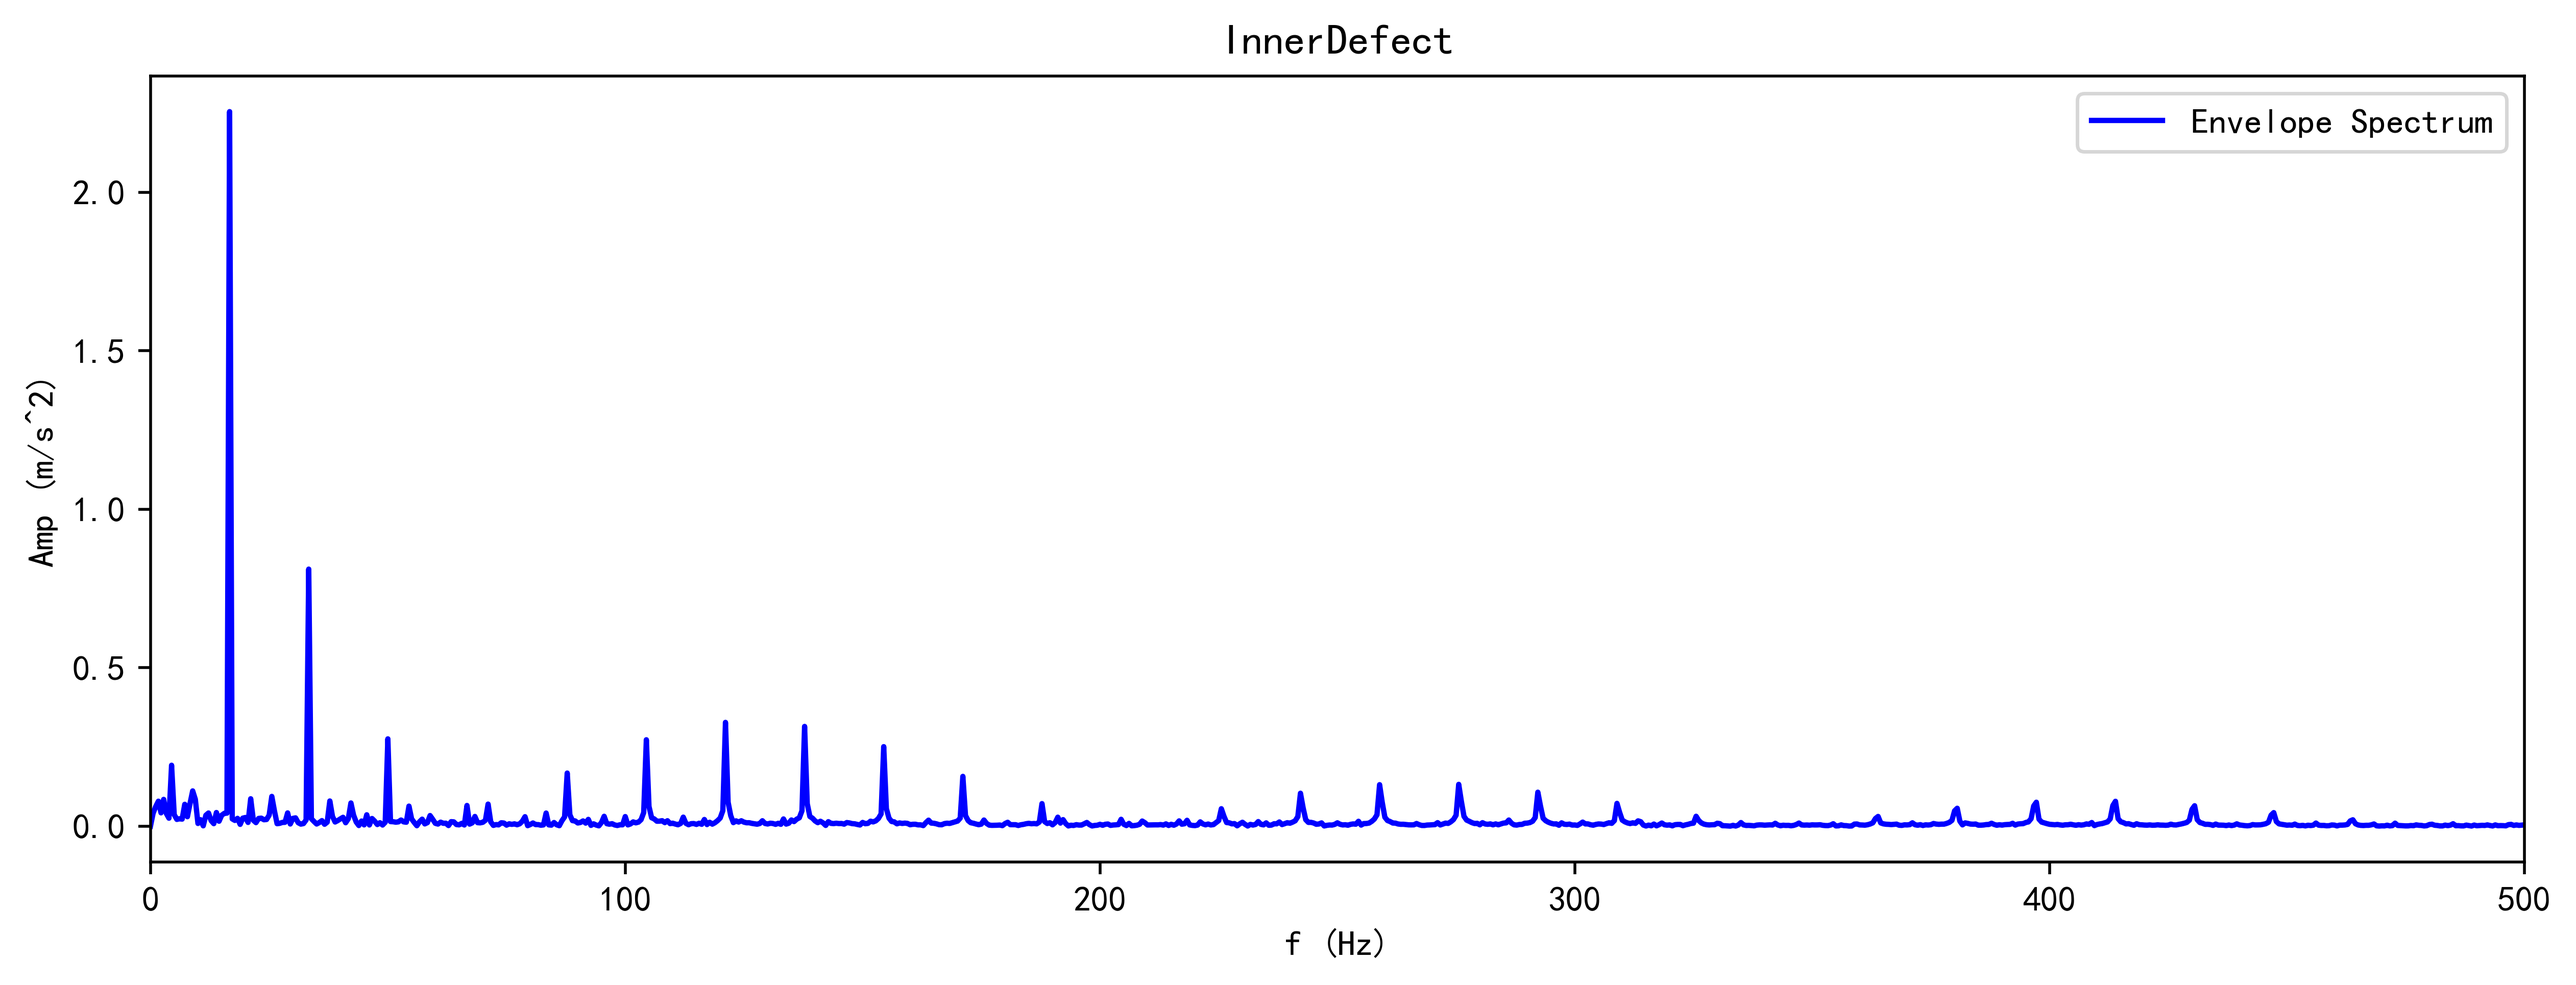
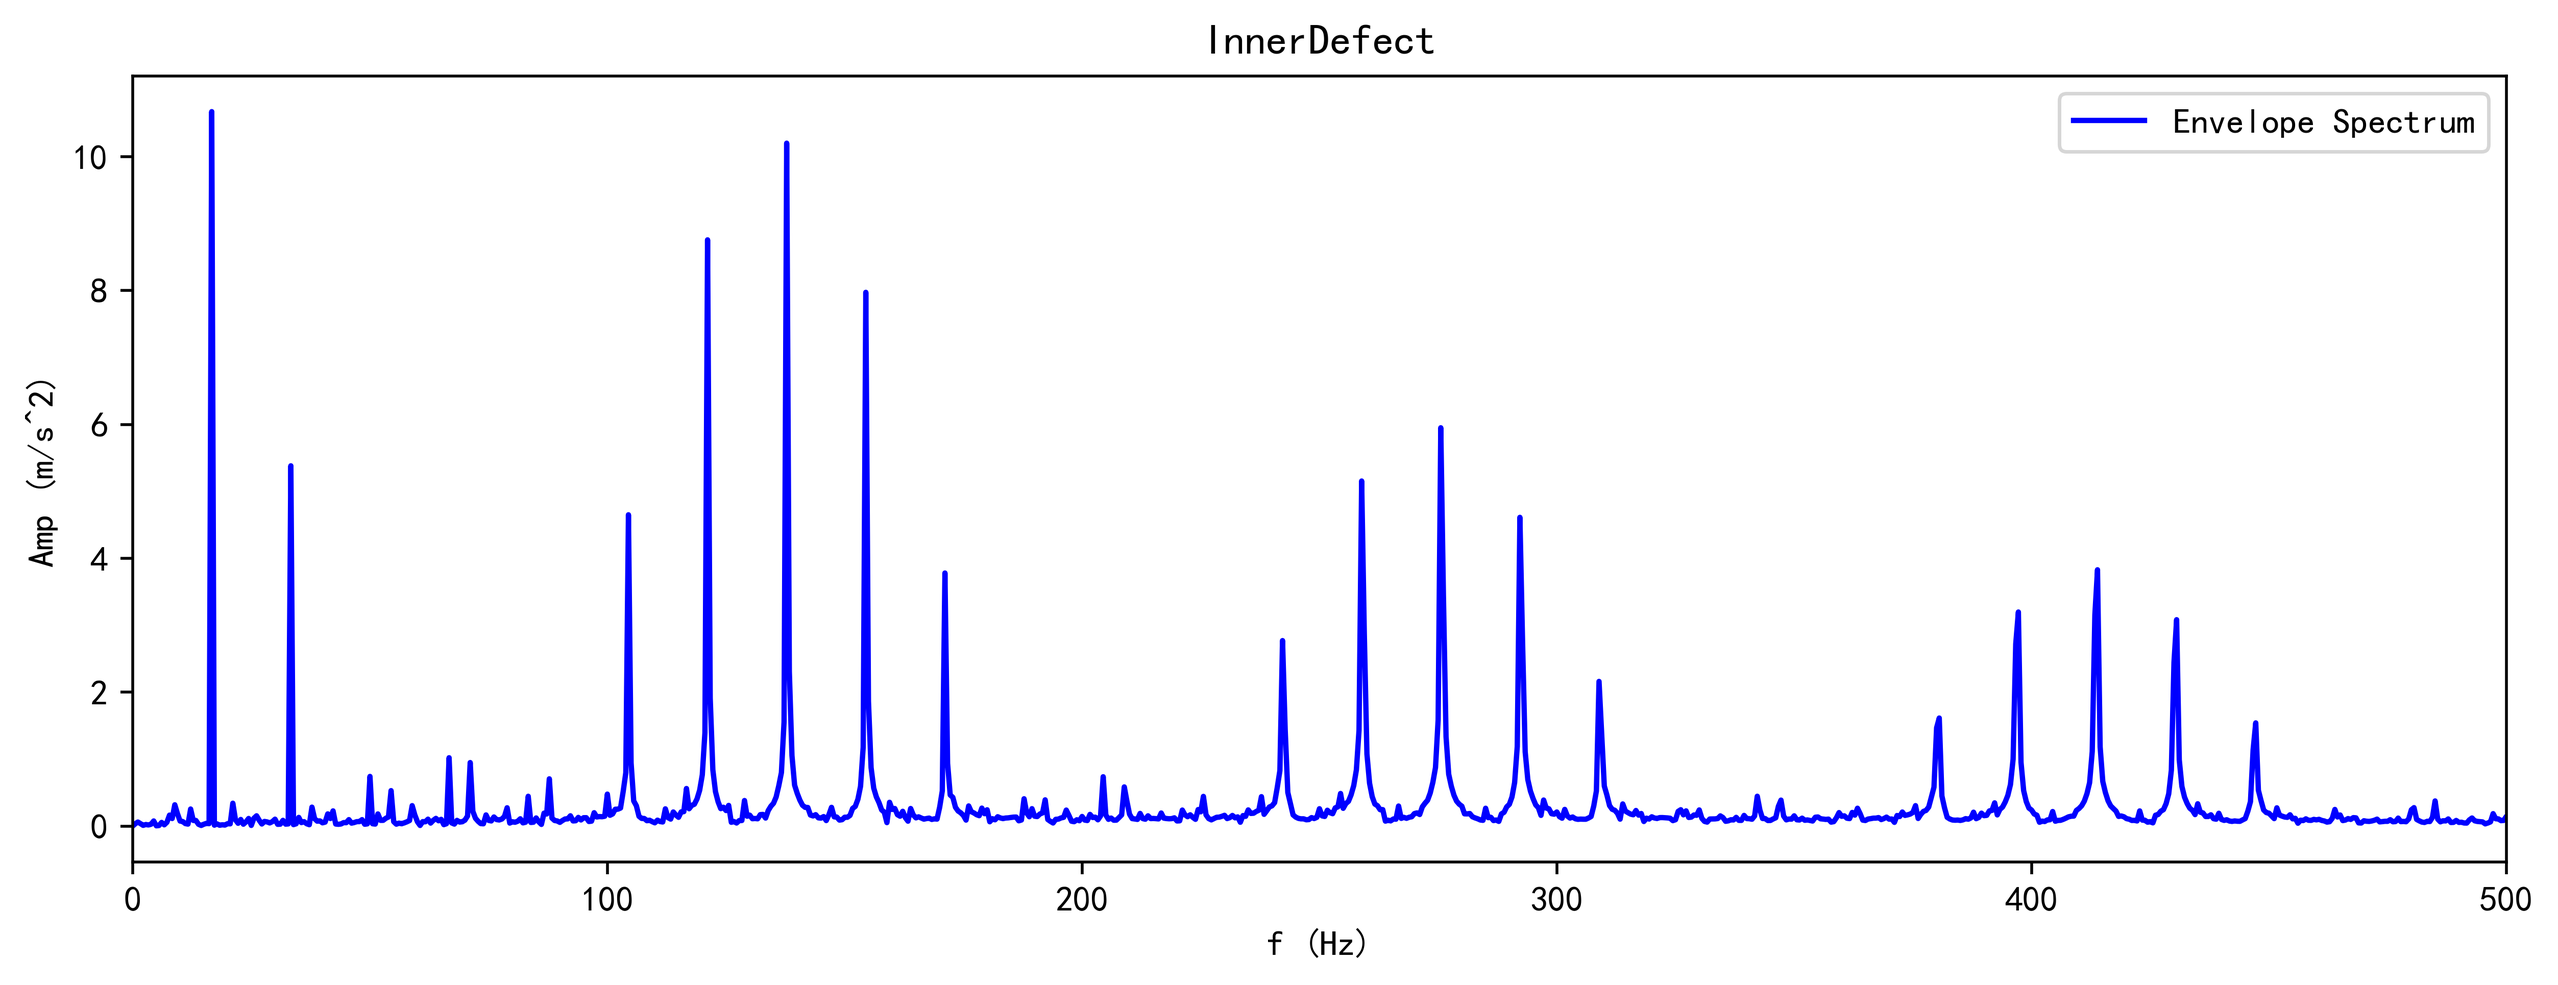
NJ208, and data saved.

diff --git a/BearingDynamics.py b/BearingDynamics.py
@@ -56,8 +56,8 @@ def Dynamics_bearing(fs=1e5, T=1, **kwargs):
     params = dict(
         filename='NJ208',
         Nb=14,
-        mi=12979.79e-9 * 7850 + 5,
-        mo=21201.94e-9 * 7850 + 5,
+        mi=12979.79e-9 * 7850,
+        mo=21201.94e-9 * 7850,
         Kbh=1e7,
         Cbh=1e3,
         Fr=500,
@@ -79,6 +79,7 @@ def Dynamics_bearing(fs=1e5, T=1, **kwargs):
     model = []
     params.update(kwargs)
     Ki, Ko = load_K(params['filename'])
+    Ke = (1 / ((1 / Ki) ** (2 / 3) + (1 / Ko) ** (2 / 3))) ** (3 / 2)
     wi = params['RPM'] / 60 * 2 * np.pi
     wc = wi / 2 * (1 - params['Rr'] / params['Rm'])
     wr = wi * params['Rm'] / 2 / params['Rr'] * (1 - (params['Rr'] / params['Rm']) ** 2)
@@ -123,7 +124,7 @@ def Dynamics_bearing(fs=1e5, T=1, **kwargs):
         BearingModel.ode_system,
         [0, T], y0, t_eval=t_span,
         args=(params['Fr'], params['Nb'], params['mi'], params['mo'],
-              wi, wc, Ki, Ko, params['Kbh'], params['Cbh'], params['c'],
+              wi, wc, Ke, Ke, params['Kbh'], params['Cbh'], params['c'],
               dC, phi_do, params['phi_oc'],
               dCi, phi_di, params['phi_oci'],
               Hbomax, Hbimax, phi_b, wr, params['alpha_b'], params['j'])
@@ -131,9 +132,9 @@ def Dynamics_bearing(fs=1e5, T=1, **kwargs):
     dy = BearingModel.y_2_acc(
         result.t, result.y,
         params['Fr'], params['Nb'], params['mi'], params['mo'],
-        wi, wc, Ki, Ko, params['Kbh'], params['Cbh'], params['c'],
-        0, 0, 0,
-        0, 0, 0,
+        wi, wc, Ke, Ke, params['Kbh'], params['Cbh'], params['c'],
+        dC, phi_do, params['phi_oc'],
+        dCi, phi_di, params['phi_oci'],
         Hbomax, Hbimax, phi_b, wr, params['alpha_b'], params['j']
     )
     if not model:
@@ -149,12 +150,12 @@ if __name__ == '__main__':
     filename = 'NJ208'
     # 计算
     # t, y, model = Dynamics_bearing(fs=fs, T=T, filename=filename) # 健康
-    t, y, model = Dynamics_bearing(fs=fs, T=T, filename=filename, Bo=0.2e-3, phi_oc=np.pi / 2)  # 外
-    # t, y, model = Dynamics_bearing(fs=fs, T=T, filename=filename, Bi=0.1e-3, phi_oci=0)  # 内
-    # t, y, model = Dynamics_bearing(fs=fs, T=T, filename=filename, Br=2e-3, alpha_b=0, j=1) # 滚
-    # t, y, model = Dynamics_bearing(fs=fs, T=T, filename=filename,
-    #                                Bo=0.1e-3, phi_oc=np.pi / 2,
-    #                                Bi=0.1e-3, phi_oci=0)  # 外+内复合
+    # t, y, model = Dynamics_bearing(fs=fs, T=T, filename=filename, Bo=0.2e-3, phi_oc=np.pi / 2)  # 外
+    # t, y, model = Dynamics_bearing(fs=fs, T=T, filename=filename, Bi=0.2e-3, phi_oci=0)  # 内
+    # t, y, model = Dynamics_bearing(fs=fs, T=T, filename=filename, Br=0.2e-3, alpha_b=0, j=1) # 滚
+    t, y, model = Dynamics_bearing(fs=fs, T=T, filename=filename,
+                                   Bo=0.1e-3, phi_oc=np.pi / 2,
+                                   Bi=0.1e-3, phi_oci=0)  # 外+内复合
     model = '_'.join(model)
     index = 11  # 5
     signal = y[index, int(0.2 * fs):]
@@ -170,3 +171,7 @@ if __name__ == '__main__':
     minutes = int(elapsed // 60)
     seconds = elapsed % 60
     print(f"运行时间: {minutes} 分 {seconds:.2f} 秒")
+    data = pandas.DataFrame(y[8:12, int(0.2 * fs):])
+    data.to_csv(f"{filename}/DATA_{model}.csv", index=False, header=False)
+    # 每一行分别为xi,yi,xo,yo通道的振动加速度
+    print(f'数据保存至{filename}下对应csv文件')
